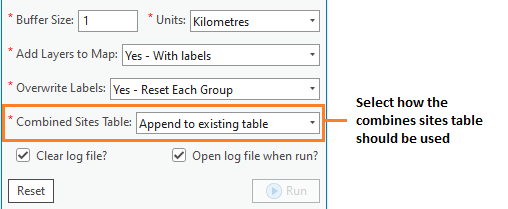
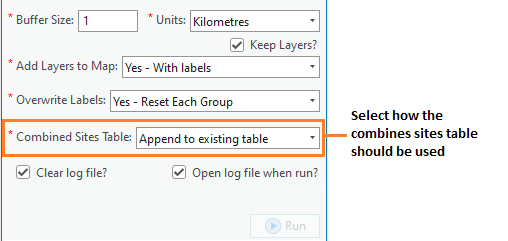
Updates for v1.0.5

diff --git a/setup/setup.rst b/setup/setup.rst
@@ -32,7 +32,7 @@ HelpURL
 User configuration profiles
 ---------------------------
 
-These configuration files must be in the same folder as the tool configuration file. There can be as many profiles as you wish, each with different options and default settings. Each file contains all of the user options and default settings for the tool including, where files are kept, which SQL Server to connect to, which SQL Server tables to make available and other general settings. Attributes and settings are presented as nodes (beginning with a start node, e.g. ``<example>``, and finishing with an end note, e.g. ``<\example>``), with the value for the setting held between the ``<value>`` and ``<\value>`` tag. 
+These configuration files must be in the same folder as the tool configuration file. There can be as many profiles as you wish, each with different options and default settings. Each file contains all of the user options and default settings for the tool including where files are kept and other general settings. Attributes and settings are presented as nodes (beginning with a start node, e.g. ``<example>``, and finishing with an end note, e.g. ``<\example>``), with the value for the setting held between the ``<value>`` and ``<\value>`` tag. 
 
 .. note::
 	The XML profiles can have any name prefix as long as they have a '.xml' file extension.
@@ -64,7 +64,7 @@ Once editing has been completed and the edits have been saved, it is recommended
 General attributes
 ******************
 
-The first section of the configuration file deals with a series of general attributes for the Data Searches tool. These general nodes specify where files are kept, how output files should be named and other overall settings. Details on these attributes (and their typical values where known) are given below. The list follows the order within which the attributes are found in the configuration file. This version of the configuration details is valid for the ArcGIS version 2.1 of the Data Searches tool.
+The first section of the configuration file deals with a series of general attributes for the Data Searches tool. These general nodes specify where files are kept, how output files should be named and other overall settings. Details on these attributes (and their typical values where known) are given below. The list follows the order within which the attributes are found in the configuration file. This version of the configuration details is valid for the ArcPro version of the Data Searches tool.
 
 .. note::
 	The enquiry reference takes the form 'LERCName/Year/EnquiryNumber' (e.g. 'XYBRC/2016/001'). Within the configuration file, it is possible to use all or parts of this reference for naming files and folders. The following options are available:
@@ -181,7 +181,7 @@ DefaultAddSelectedLayers
 	The default option for adding the selected layers that should be shown when the form opens. This attribute is the index number of the item in the 'Add Selected Layers to Map' drop-down list, with 1 being the first option. If no value is entered the list box will be hidden and no layers will be added to the map.
 
 _`GroupLayerName`
-	The name of the group layer that will be created in the ArcGIS Table of Contents, under which the results of the data search will be kept. The keywords ``%ref%``, ``%shortref%``, ``%subref%``and ``%sitename%`` are allowed.
+	The name of the group layer that will be created in the ArcGIS Pro active map, under which the results of the data search will be kept. The keywords ``%ref%``, ``%shortref%``, ``%subref%``and ``%sitename%`` are allowed.
 
 OverwriteLabelOptions
 	The options that should be shown in the 'Overwrite Map Labels' drop-down list. These options should not be changed.
@@ -215,7 +215,7 @@ CombinedSitesTable
 Map layer attributes
 ********************
 
-All map layer attributes are found within the ``<MapLayers>`` node. For each data layer that can be included in the searches, a new child node is created that has the name of the layer (e.g. ``<Sites_-_SSSIs>``). This name is name of the layer as it will be shown in the tool menu, and can be different from the layer name as it is shown in the ArcGIS table of contents (which will be set in a subsequent child node).
+All map layer attributes are found within the ``<MapLayers>`` node. For each data layer that can be included in the searches, a new child node is created that has the name of the layer (e.g. ``<Sites_-_SSSIs>``). This name is name of the layer as it will be shown in the tool menu, and can be different from the layer name as it is shown in the ArcGIS Pro active map (which will be set in a subsequent child node).
 
 .. tip::
 	If you wish to display spaces in any layer names in the tool menu use an underscore (``_``) for each space in the node name for the layer. XML does not allow spaces in node names, but the tool will translate these underscores into spaces when the form is opened.
@@ -236,15 +236,15 @@ TableOutputName
 	The TableOutputName will be used to name any tabular file that is exported from this data layer during the search. The keywords ``%ref%``, ``%shortref%``, ``%subref%``and ``%sitename%`` are allowed.
 
 Columns
-	A comma-separated list of columns that should be included in the tabular data exported from this data layer during the search. The column names are case sensitive and should match the column names in the source layer. Area, Distance and Radius columns may be included by adding the keywords 'Area', Distance' and 'Radius' (but note the remark about pre-existing area fields in the `IncludeArea`_ node). If results from any aggregate functions are to be included, they should follow the naming convention that ArcGIS employs for statistics fields, as follows:
+	A comma-separated list of columns that should be included in the tabular data exported from this data layer during the search. The column names are case sensitive and should match the column names in the source layer. Area, Distance and Radius columns may be included by adding the keywords 'Area', Distance' and 'Radius' (but note the remark about pre-existing area fields in the `IncludeArea`_ node). If results from any aggregate functions are to be included, they should follow the naming convention that ArcGIS Pro employs for statistics fields, as follows:
 
 	- Column names are up to 10 characters long and are case sensitive.
 	- Statistics column names are made up of the statistic requested (e.g. COUNT, SUM, MEAN, FIRST, etc.), the underscore character (``_``), and the name of the column to which the statistic applies (e.g. ``COUNT_Year``). Names longer than 10 characters are abbreviated. 
-	- If, due to abbreviation, two output columns would be given the same name, ArcGIS will automatically add a count of ``_1`` to the column name. Where the column name is nine or ten characters long, it will replace the last one or two characters of the second column with ``_1``, always ensuring the length of the column name does not exceed ten characters. 
+	- If, due to abbreviation, two output columns would be given the same name, ArcGIS Pro will automatically add a count of ``_1`` to the column name. Where the column name is nine or ten characters long, it will replace the last one or two characters of the second column with ``_1``, always ensuring the length of the column name does not exceed ten characters. 
 	- Numbering for any subsequent columns with the same name will follow this format adding one to each column number until this number reaches 9. Any subsequent columns will be numbered ``_10``, ``_11`` etc, so adding or replacing up to three rather than two characters in the column name. Again in all cases the new column name will be ten characters long or less.
 
 	.. tip::
-		If you are unsure what the output column names will be from an aggregation operation, run the Dissolve tool (this resides in the ArcGIS toolbox, under Data Management Tools => Generalisation) on a sample of your data, and include the statistics columns with the relevant statistic types as you intend to use them in the Data Searches tool. The output will contain the column names as they will be generated by the Data Searches tool, since it uses the same process.
+		If you are unsure what the output column names will be from an aggregation operation, run the Dissolve tool (this resides in the ArcGIS Pro toolbox, under Data Management Tools => Generalisation) on a sample of your data, and include the statistics columns with the relevant statistic types as you intend to use them in the Data Searches tool. The output will contain the column names as they will be generated by the Data Searches tool, since it uses the same process.
 
 
 _`GroupColumns`
@@ -260,7 +260,7 @@ Criteria
 	Selection criteria that should be used on the data layer during the search. These can be used to, for example, suppress confidential records, report on particular species only, or only include records after a certain date. The criteria take the form ``ColumnName Operand Value`` and may include ``AND`` and ``OR`` statements and similar. String values should be enclosed in single quotes. An example might be ``Name = 'myName' AND Year > 2010``. Only records that match the criteria will be exported.
 
 	.. note::
-		Any clause specified here must adhere to ArcGIS SQL syntax as the clause will be run within ArcGIS.
+		Any clause specified here must adhere to ArcGIS Pro SQL syntax as the clause will be run within ArcGIS.
 
 _`IncludeArea`
 	A Yes/No attribute that defines wether an area calculation should be included in the analysis. If `OutputType`_ is set to``Clip``, areas will be calculated for the clipped polygons. The values are calculated in a column called 'Area' and the results can be added to the tabular output by using the keyword 'Area' in the Columns list. Note that if a column called Area is already present in the input layer, this will be used for the calculations. In this case, it is important to use the correct case for the column name (e.g. if the field is called AREA, the full caps must be maintained). Areas can only be calculated for layers that have polygon topology, and the tool accounts for this.
@@ -289,7 +289,7 @@ _`OutputType`
 	.. note:: This attribute affects area calculations; if it is set to 'Clip', any areas calculated will be those of the clipped area, even if the layer is not kept subsequently.
 
 LoadWarning
-	A Yes/No attribute that defines whether a warning should be issued if this layer is not loaded in ArcGIS.
+	A Yes/No attribute that defines whether a warning should be issued if this layer is not loaded in ArcPro.
 
 PreSelectLayer
 	A Yes/No attribute that defines whether this layer should be highlighted by default when the tool menu is loaded.

diff --git a/execute/execute.rst b/execute/execute.rst
@@ -24,7 +24,7 @@ As discussed in the :doc:`Setting up the tool <../setup/setup>` section, the Dat
    \newpage
 
 .. index::
-	single: Opening the form
+	single: Opening the tool
 
 Opening the tool
 ================
@@ -207,7 +207,7 @@ If required, enter the site name and requesting organisation name (:numref:`figE
 	These fields will only appear if the values for the attributes 'RequireSiteName' and 'RequireOrganisation' are set to ``Yes`` in the XML profile.
 
 
-Select the data layers you wish to include in the search in the 'Layers to Search' list. Use the :kbd:`Ctrl` key to select individual layers, or the :kbd:`Shift` key to select a range of layers. Selected layers will appear highlighted, layers that will not be included remain unselected (:numref:`figSelectLayers`).
+Select the data layers you wish to include in the search in the 'Layers to Search' list.
 
 .. _figSelectLayers:
 
@@ -215,6 +215,9 @@ Select the data layers you wish to include in the search in the 'Layers to Searc
 	:align: center
 
 	Select the layers to include in the search
+
+.. tip::
+	Use the :kbd:`Ctrl` key to select multiple rows in the list, :kbd:`Shift` key to select a range of rows or :kbd:`Ctrl A` to select all of the rows. Selected rows will appear highlighted, rows that will not be included remain unselected.
 
 
 Next, select the buffer size and units in the Buffer Size and Buffer Units boxes (:numref:`figBufferSettings`). The buffer size box accepts decimal points.

diff --git a/faq/faq.rst b/faq/faq.rst
@@ -30,7 +30,7 @@ Operating the tool
 
 	This issue can arise in several ways:
 
-	- The layer isn't loaded in your GIS document or workspace. In this case, a :ref:`message will pop up <figlaunchwarning>` before the form is displayed informing you the layer isn't loaded. Add the layer to GIS and restart the tool and the problem should be resolved.
+	- The layer isn't loaded in your GIS document or workspace. In this case, a :ref:`message will pop up <figlaunchwarning>` before the form is displayed informing you the layer isn't loaded. Add the layer to GIS and reload the profile and the problem should be resolved.
 	- The layer isn't listed in the XML configuration document. Please refer to the :doc:`Setting up the tool <../setup/setup>` section and add it as a map layer.
 	- The map layer is listed in the configuration document, but the 'LayerName' is spelled incorrectly. Note that the name must follow the exact format of the name of the layer in the active map window (in ArcGIS Pro the name is also case sensitive).
 

diff --git a/appendix/appendix.rst b/appendix/appendix.rst
@@ -60,7 +60,7 @@ Below is an example of tool XML that must be present for the Data Searches tool 
 Example user XML profile
 ========================
 
-Below is an example of XML profile that might be used to set up the Data Searches tool in ArcGIS Pro.
+Below is an example of an XML profile that might be used to set up the Data Searches tool in ArcGIS Pro.
 Note, many of the settings have been included for illustration only and it is up to each user or LERC to
 ensure the system is configured to their requirements.
 
@@ -259,6 +259,11 @@ ensure the system is configured to their requirements.
         <AggregateColumns>
             <value>SearchRef;Organisation;SiteName;Radius</value>
         </AggregateColumns>
+
+        <!-- The default option for whether to keep the selected map layers. -->
+        <DefaultKeepSelectedLayers>
+        	<value>Yes</value>
+        </DefaultKeepSelectedLayers>
 
         <!-- The options for showing the selected tables -->
         <AddSelectedLayersOptions>
